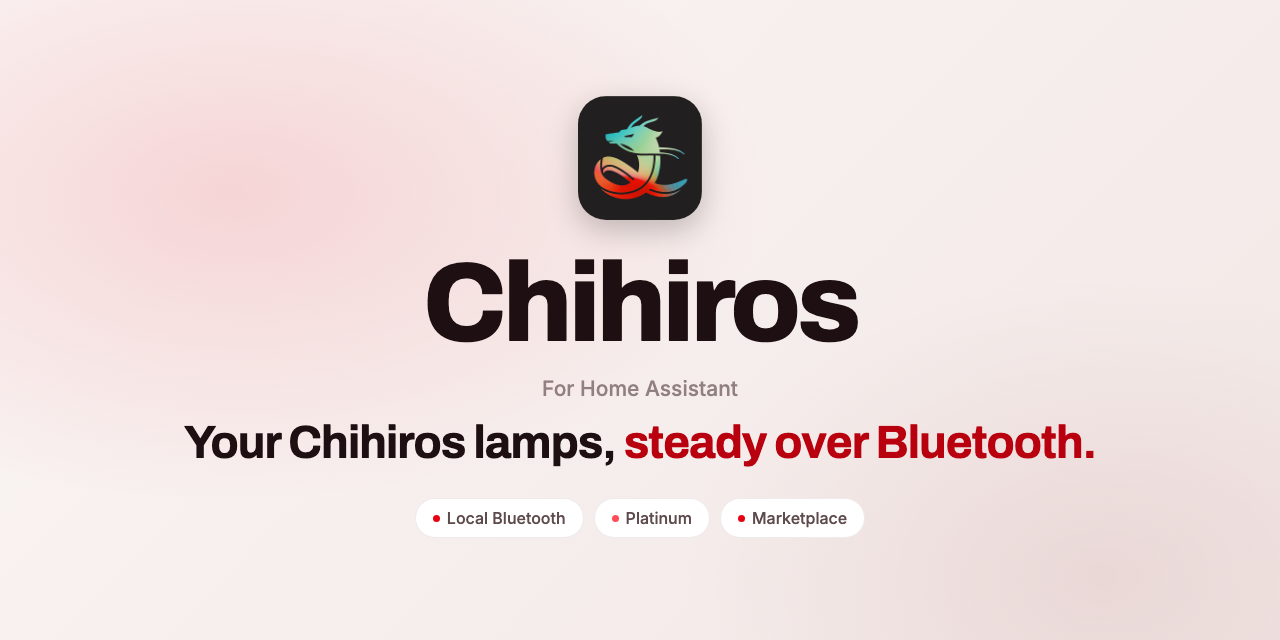
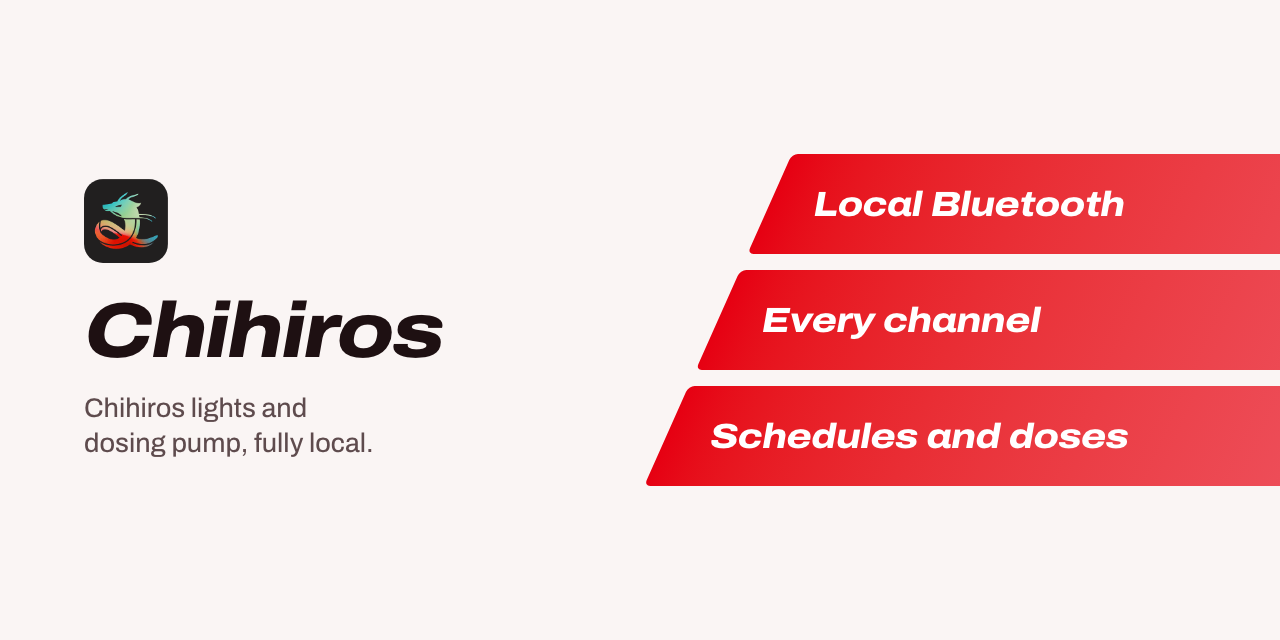
README and project page in the v2 design
Title banner with the lanes, Install and Set up as one Get started, shared
footer. The page loads theme v2 (Archivo from sh1ft-w.github.io), hero left
with the three key facts on the lanes.

Claude-Session: https://claude.ai/code/session_01TLmTtZLAvnS1BJ3w9tzxXq

diff --git a/docs/index.html b/docs/index.html
@@ -13,32 +13,30 @@
 <meta property="og:description" content="Chihiros LED lamps and the dosing pump in Home Assistant, steady over Bluetooth proxies.">
 <meta property="og:image" content="https://sh1ft-w.github.io/chihiros/images/readme-title-social.png">
 <link rel="icon" href="logo.png">
-<link rel="preconnect" href="https://fonts.googleapis.com">
-<link rel="preconnect" href="https://fonts.gstatic.com" crossorigin>
-<link href="https://fonts.googleapis.com/css2?family=Archivo:wght@600;700;800;900&family=Inter:wght@400;500;600&family=JetBrains+Mono:wght@400;500&display=swap" rel="stylesheet">
-<!-- Shared SH1FT-W design (tokens, glass navigation, light/dark, DE/EN, reveal) -->
-<link rel="stylesheet" href="https://sh1ft-w.github.io/theme/v1/theme.css">
-<script src="https://sh1ft-w.github.io/theme/v1/theme.js"></script>
+<!-- Shared SH1FT-W design, version 2 (tokens, Archivo, navigation, light/dark, DE/EN, the lanes) -->
+<link rel="stylesheet" href="https://sh1ft-w.github.io/theme/v2/theme.css">
+<script src="https://sh1ft-w.github.io/theme/v2/theme.js"></script>
 <style>
 /* Chihiros-Palette: warmes Weiß bei Tag, dunkles Rot bei Nacht, Akzent im Chihiros-Rot #e60012 */
 :root {
   --accent: #e60012; --accent-ink: #b8000e; --on-accent: #ffffff;
-  --sea: #e60012; --sea-tint: rgba(230,0,18,0.09); --sea-glow: rgba(230,0,18,0.30); --aqua: #FF4D57;
+  --sea: #e60012; --sea-tint: rgba(230,0,18,0.09); --aqua: #FF4D57;
   --ch-w: #8FA3B1; --ch-b: #2F7FD8; --ch-g: #2FA36A; --ch-r: #E0584A;
-  --font: "Inter", -apple-system, BlinkMacSystemFont, system-ui, sans-serif;
-  --display: "Archivo", "Inter", -apple-system, BlinkMacSystemFont, system-ui, sans-serif;
-  --mono: "JetBrains Mono", ui-monospace, "SF Mono", Menlo, monospace;
+  --font: "Archivo", -apple-system, BlinkMacSystemFont, system-ui, sans-serif;
+  --display: "Archivo", -apple-system, BlinkMacSystemFont, system-ui, sans-serif;
+  --mono: ui-monospace, "SF Mono", Menlo, monospace;
+  --lane-a: #E60012; --lane-b: #FF4D57;
   --bg: #FAF5F4; --bg-2: #F2E8E6; --card: #FFFFFF; --card-2: #F8F1F0;
   --ink: #1E1012; --ink-2: #5E4B4D; --ink-3: rgba(30,16,18,0.52);
   --line: rgba(60,10,15,0.11); --chip: rgba(80,10,15,0.06);
   --glass: rgba(255,251,250,0.72); --glass-line: rgba(255,255,255,0.75);
   --shadow: 0 1px 2px rgba(5,30,50,0.05), 0 12px 32px -14px rgba(5,30,50,0.22);
   --shadow-lg: 0 2px 6px rgba(5,30,50,0.05), 0 48px 100px -36px rgba(5,30,50,0.40);
-  --radius: 26px; --radius-lg: 36px;
+  --radius: 20px; --radius-lg: 28px; --max: 1200px;
 }
 @media (prefers-color-scheme: dark) { :root:not([data-theme="light"]) {
   --accent: #FF4D57; --accent-ink: #FF7A80; --on-accent: #1A0406;
-  --sea: #FF4D57; --sea-tint: rgba(255,77,87,0.14); --sea-glow: rgba(255,77,87,0.28);
+  --sea: #FF4D57; --sea-tint: rgba(255,77,87,0.14);
   --ch-w: #DCE6EC;
   --bg: #140809; --bg-2: #1D0D0F; --card: #241214; --card-2: #2E181B;
   --ink: #F7ECEC; --ink-2: rgba(240,220,222,0.84); --ink-3: rgba(240,220,222,0.52);
@@ -48,7 +46,7 @@
 } }
 :root[data-theme="dark"] {
   --accent: #FF4D57; --accent-ink: #FF7A80; --on-accent: #1A0406;
-  --sea: #FF4D57; --sea-tint: rgba(255,77,87,0.14); --sea-glow: rgba(255,77,87,0.28);
+  --sea: #FF4D57; --sea-tint: rgba(255,77,87,0.14);
   --ch-w: #DCE6EC;
   --bg: #140809; --bg-2: #1D0D0F; --card: #241214; --card-2: #2E181B;
   --ink: #F7ECEC; --ink-2: rgba(240,220,222,0.84); --ink-3: rgba(240,220,222,0.52);
@@ -64,58 +62,53 @@ a:hover { text-decoration: underline; text-underline-offset: 3px; }
 .narrow { max-width: 780px; }
 p { margin: 0; }
 .muted { color: var(--ink-2); }
-.center { text-align: center; }
-.center .lead { margin-left: auto; margin-right: auto; max-width: 680px; }
+.center { text-align: left; }
+.center .lead { max-width: 680px; }
 code, .k { font-family: var(--mono); font-variant-numeric: tabular-nums; }
 .brand { font-family: var(--display); font-weight: 800; }
 .brand img { border-radius: 8px; }
 
 /* Knöpfe */
 .btn {
-  display: inline-flex; align-items: center; justify-content: center; gap: 8px; height: 48px; padding: 0 24px; border-radius: 999px;
+  display: inline-flex; align-items: center; justify-content: center; gap: 8px; height: 48px; padding: 0 24px; border-radius: 12px;
   font-family: inherit; font-size: 15px; font-weight: 600; line-height: 1; background: var(--sea); color: var(--on-accent); border: 0; cursor: pointer;
-  box-shadow: 0 12px 28px -12px var(--sea-glow); transition: transform .2s ease, filter .2s ease;
+  transition: transform .2s ease, filter .2s ease;
 }
 .btn:hover { text-decoration: none; filter: brightness(1.1); transform: translateY(-1px); }
-.btn.ghost { background: var(--card); color: var(--ink); box-shadow: var(--shadow); }
+.btn.ghost { background: var(--chip); color: var(--ink); }
 .btn.small { height: 36px; padding: 0 16px; font-size: 14px; }
 
 /* Schrift */
-.eyebrow { display: inline-flex; align-items: center; gap: 8px; font-size: 13px; font-weight: 600; letter-spacing: 0.08em; text-transform: uppercase; color: var(--accent-ink); margin: 0 0 18px; }
-.eyebrow::before { content: ""; width: 8px; height: 8px; border-radius: 50%; background: var(--aqua); box-shadow: 0 0 0 4px var(--sea-tint); }
+.eyebrow { font-size: 16px; font-weight: 650; color: var(--accent-ink); margin: 0 0 12px; }
 h1, h2, h3 { margin: 0; color: var(--ink); font-family: var(--display); font-weight: 800; text-wrap: balance; }
-h1 { font-size: clamp(44px, 8vw, 100px); line-height: 0.96; letter-spacing: -0.04em; font-weight: 900; }
-h1 em, h2 em { font-style: normal; color: var(--accent-ink); }
-h2 { font-size: clamp(34px, 5vw, 60px); line-height: 1.03; letter-spacing: -0.035em; }
-h3 { font-size: 20px; line-height: 1.2; letter-spacing: -0.015em; font-weight: 700; }
+h1 { font-size: clamp(44px, 6vw, 84px); line-height: 1; font-weight: 800; font-stretch: 118%; font-style: italic; letter-spacing: -0.025em; }
+h1 em, h2 em { font-style: inherit; color: inherit; }
+h2 { font-size: clamp(30px, 3.8vw, 48px); line-height: 1.08; font-weight: 750; font-stretch: 112%; letter-spacing: -0.02em; }
+h3 { font-size: 20px; line-height: 1.2; letter-spacing: -0.015em; font-weight: 700; font-stretch: 106%; }
 .lead { font-size: clamp(18px, 2vw, 22px); line-height: 1.5; color: var(--ink-2); margin: 22px 0 0; }
 .lead strong { color: var(--ink); font-weight: 600; }
 
 section { padding: clamp(72px, 9vw, 120px) 0; position: relative; }
 section.tint { background: var(--bg-2); }
-.head { margin-bottom: clamp(36px, 5vw, 60px); }
-.cap { margin-top: 20px; font-size: 15px; color: var(--ink-3); text-align: center; }
+.head { margin-bottom: clamp(36px, 5vw, 60px); max-width: 50em; }
+.cap { margin-top: 20px; font-size: 15px; color: var(--ink-3); }
 
-/* Hero */
-.hero { padding: clamp(56px, 9vw, 112px) 0 clamp(64px, 8vw, 104px); text-align: center; overflow: hidden; }
-.hero .glow { position: absolute; inset: -20% -10% auto; height: 90%; pointer-events: none;
-  background: radial-gradient(40% 36% at 30% 30%, rgba(230,0,18,0.16), transparent 70%), radial-gradient(36% 34% at 72% 24%, rgba(120,0,10,0.12), transparent 70%);
-  filter: blur(50px); }
-.hero .wrap { position: relative; }
-.hero .lead { max-width: 660px; margin-left: auto; margin-right: auto; }
-.cta { display: flex; flex-wrap: wrap; gap: 12px; justify-content: center; margin-top: 34px; }
-.meta { margin-top: 22px; font-size: 14px; color: var(--ink-3); display: flex; flex-wrap: wrap; gap: 8px 14px; justify-content: center; align-items: center; }
-.pill { display: inline-flex; align-items: center; gap: 6px; padding: 5px 12px; border-radius: 999px; background: var(--card); box-shadow: var(--shadow); font-weight: 600; color: var(--ink-2); font-size: 13px; }
+/* Hero: text left, the lanes right */
+.hero { padding: clamp(48px, 7vw, 96px) 0 clamp(56px, 7vw, 96px); overflow: hidden; }
+.hero .wrap { display: grid; grid-template-columns: minmax(0, 1.15fr) minmax(0, 1fr); gap: clamp(24px, 4vw, 64px); align-items: center; }
+.hero .mark { display: block; width: 64px; height: 64px; border-radius: 15px; margin-bottom: 26px; }
+.hero .lead { max-width: 34em; }
+.hero .s-lanes { margin-left: 32px; margin-right: calc(-1 * var(--gutter) - 14vw); }
+.s-track b { color: #fff; font: italic 800 clamp(20px, 2.5vw, 34px)/1 var(--font); font-stretch: 116%; letter-spacing: -0.015em; white-space: nowrap; }
+.cta { display: flex; flex-wrap: wrap; gap: 12px; margin-top: 34px; }
+.meta { margin-top: 22px; font-size: 14px; color: var(--ink-3); display: flex; flex-wrap: wrap; gap: 8px 14px; align-items: center; }
+.pill { display: inline-flex; align-items: center; gap: 6px; padding: 5px 12px; border-radius: 8px; background: var(--chip); font-weight: 600; color: var(--ink-2); font-size: 13px; }
 .pill i { width: 7px; height: 7px; border-radius: 50%; background: var(--aqua); display: inline-block; }
-
-/* Bühne: das README-Titelbild */
-.stage { position: relative; margin: clamp(48px, 7vw, 84px) auto 0; max-width: 1100px; }
-.stage .photo { display: block; width: 100%; height: auto; aspect-ratio: 2 / 1; border-radius: var(--radius-lg); box-shadow: var(--shadow-lg); }
 
 /* Bento: Gerade neu */
 .bento { display: grid; grid-template-columns: repeat(12, 1fr); gap: 16px; }
-.b { background: var(--card); border-radius: var(--radius); box-shadow: var(--shadow); padding: 26px 28px 28px; min-width: 0; }
-.b .tag { display: inline-block; font-size: 12px; font-weight: 600; letter-spacing: 0.06em; text-transform: uppercase; color: var(--accent-ink); background: var(--sea-tint); padding: 4px 10px; border-radius: 999px; margin-bottom: 14px; }
+.b { background: var(--card); border-radius: var(--radius); border: 1px solid var(--line); padding: 26px 28px 28px; min-width: 0; }
+.b .tag { display: inline-block; font-size: 13px; font-weight: 600; color: var(--accent-ink); background: var(--sea-tint); padding: 4px 10px; border-radius: 6px; margin-bottom: 14px; }
 .b h3 { margin-bottom: 8px; }
 .b p { color: var(--ink-2); font-size: 16px; }
 .b code { font-size: 14px; background: var(--chip); padding: 2px 6px; border-radius: 6px; color: var(--ink); }
@@ -123,11 +116,11 @@ section.tint { background: var(--bg-2); }
 
 /* Funktionen */
 .grid3 { display: grid; grid-template-columns: repeat(3, minmax(0, 1fr)); gap: 16px; }
-.tile { background: var(--card); border-radius: var(--radius); padding: 28px; box-shadow: var(--shadow); min-width: 0; }
+.tile { background: var(--card); border-radius: var(--radius); padding: 28px; border: 1px solid var(--line); min-width: 0; }
 .tile h3 { margin-bottom: 8px; }
 .tile p { color: var(--ink-2); font-size: 16px; }
 .tile code { font-size: 14px; background: var(--chip); padding: 2px 6px; border-radius: 6px; }
-.tile .ico { width: 46px; height: 46px; border-radius: 15px; background: var(--sea-tint); color: var(--accent-ink); display: grid; place-items: center; margin-bottom: 18px; }
+.tile .ico { width: 46px; height: 46px; border-radius: 10px; background: var(--sea-tint); color: var(--accent-ink); display: grid; place-items: center; margin-bottom: 18px; }
 .tile .ico svg { width: 23px; height: 23px; }
 
 /* Profil-Illustration */
@@ -136,7 +129,7 @@ section.tint { background: var(--bg-2); }
 .points li { display: grid; gap: 2px; }
 .points b { font-family: var(--display); font-size: 17px; font-weight: 700; color: var(--ink); }
 .points span { color: var(--ink-2); font-size: 16px; }
-.prof { background: var(--card); border-radius: var(--radius-lg); box-shadow: var(--shadow-lg); padding: clamp(22px, 4vw, 36px); min-width: 0; }
+.prof { background: var(--card); border-radius: var(--radius-lg); border: 1px solid var(--line); padding: clamp(22px, 4vw, 36px); min-width: 0; }
 .prof-head { display: flex; justify-content: space-between; align-items: center; gap: 12px; flex-wrap: wrap; }
 .prof-head b { font-family: var(--display); font-size: 18px; }
 .days { display: flex; gap: 6px; flex-wrap: wrap; margin-top: 16px; }
@@ -154,16 +147,16 @@ section.tint { background: var(--bg-2); }
 .prof-foot b { font-weight: 600; font-size: 15px; }
 
 /* Entitäten-Tabelle */
-.tbl { width: 100%; border-collapse: separate; border-spacing: 0; background: var(--card); border-radius: var(--radius); box-shadow: var(--shadow); overflow: hidden; font-size: 15px; }
+.tbl { width: 100%; border-collapse: separate; border-spacing: 0; background: var(--card); border-radius: var(--radius); border: 1px solid var(--line); overflow: hidden; font-size: 15px; }
 .tbl th, .tbl td { text-align: left; padding: 14px 18px; border-top: 1px solid var(--line); vertical-align: top; }
-.tbl thead th { border-top: 0; font-size: 12px; font-weight: 600; letter-spacing: 0.06em; text-transform: uppercase; color: var(--accent-ink); background: var(--card-2); }
+.tbl thead th { border-top: 0; font-size: 13px; font-weight: 600; color: var(--accent-ink); background: var(--card-2); }
 .tbl td:first-child { font-weight: 600; white-space: nowrap; }
 .tbl code { font-size: 13px; background: var(--chip); padding: 2px 6px; border-radius: 6px; overflow-wrap: anywhere; }
 .tbl td:last-child { color: var(--ink-2); }
 
 /* Wie es funktioniert */
 .flow { display: grid; gap: 12px; max-width: 900px; margin: 0 auto; }
-.lane { display: grid; grid-template-columns: 1fr auto 1fr; gap: 16px; align-items: center; background: var(--card); border-radius: 22px; box-shadow: var(--shadow); padding: 18px 22px; }
+.lane { display: grid; grid-template-columns: 1fr auto 1fr; gap: 16px; align-items: center; background: var(--card); border-radius: 22px; border: 1px solid var(--line); padding: 18px 22px; }
 .lane .end b { display: block; font-family: var(--display); font-size: 16px; }
 .lane .end span { font-size: 14px; color: var(--ink-2); }
 .lane .end.r { text-align: right; }
@@ -172,12 +165,13 @@ section.tint { background: var(--bg-2); }
 
 /* Installation */
 .install { display: grid; grid-template-columns: 1.2fr 1fr; gap: 20px; }
-.panel { background: var(--card); border-radius: var(--radius); padding: clamp(26px, 4vw, 42px); box-shadow: var(--shadow); min-width: 0; }
+.panel { background: var(--card); border-radius: var(--radius); padding: clamp(26px, 4vw, 42px); border: 1px solid var(--line); min-width: 0; }
 .panel h3 { margin-bottom: 6px; }
+.panel > .btn { margin-top: 22px; }
 .panel code { font-size: 14px; background: var(--chip); padding: 2px 6px; border-radius: 6px; overflow-wrap: anywhere; }
-.repo { margin-top: 10px; display: flex; align-items: center; gap: 8px; background: var(--chip); border-radius: 18px; padding: 8px 8px 8px 18px; }
+.repo { margin-top: 10px; display: flex; align-items: center; gap: 8px; background: var(--chip); border-radius: 12px; padding: 8px 8px 8px 18px; }
 .repo code { flex: 1; min-width: 0; font-size: 15px; background: none; padding: 0; color: var(--ink); overflow-wrap: anywhere; }
-.copy { flex: none; height: 34px; padding: 0 14px; border-radius: 999px; border: 0; background: var(--card); color: var(--ink); font-family: inherit; font-size: 13px; font-weight: 600; cursor: pointer; box-shadow: 0 1px 2px rgba(0,0,0,0.12); }
+.copy { flex: none; height: 34px; padding: 0 14px; border-radius: 8px; border: 1px solid var(--line); background: var(--card); color: var(--ink); font-family: inherit; font-size: 13px; font-weight: 600; cursor: pointer; }
 .steps { list-style: none; padding: 0; margin: 28px 0 0; display: grid; gap: 20px; counter-reset: s; }
 .steps li { position: relative; padding-left: 50px; color: var(--ink-2); }
 .steps li::before { counter-increment: s; content: counter(s); position: absolute; left: 0; top: -3px; width: 34px; height: 34px; border-radius: 50%; display: grid; place-items: center; background: var(--sea-tint); color: var(--accent-ink); font-weight: 700; font-size: 15px; }
@@ -186,14 +180,14 @@ section.tint { background: var(--bg-2); }
 .req li { display: flex; gap: 14px; align-items: baseline; padding: 14px 0; border-top: 1px solid var(--line); font-size: 16px; }
 .req li:first-child { border-top: 0; padding-top: 6px; }
 .req .name { color: var(--ink); font-weight: 600; flex: 1; min-width: 0; }
-.tg { flex: none; font-size: 12px; font-weight: 600; letter-spacing: 0.04em; text-transform: uppercase; padding: 4px 10px; border-radius: 999px; background: var(--sea-tint); color: var(--accent-ink); }
+.tg { flex: none; font-size: 13px; font-weight: 600; padding: 4px 10px; border-radius: 6px; background: var(--sea-tint); color: var(--accent-ink); }
 .tg.opt { background: var(--chip); color: var(--ink-3); }
 .note { margin-top: 20px; font-size: 14px; color: var(--ink-3); }
 .full { grid-column: 1 / -1; }
 
 /* FAQ */
 .faq { display: grid; gap: 10px; }
-.faq details { background: var(--card); border-radius: 20px; box-shadow: var(--shadow); padding: 0 22px; }
+.faq details { background: var(--card); border-radius: 20px; border: 1px solid var(--line); padding: 0 22px; }
 .faq summary { cursor: pointer; list-style: none; padding: 18px 0; font-family: var(--display); font-weight: 700; font-size: 17px; display: flex; gap: 12px; align-items: center; }
 .faq summary::-webkit-details-marker { display: none; }
 .faq summary::after { content: "+"; margin-left: auto; font-size: 22px; color: var(--accent-ink); font-weight: 600; }
@@ -217,7 +211,6 @@ footer .fine { flex-basis: 100%; line-height: 1.6; }
 }
 @media (max-width: 640px) {
   body { font-size: 16px; }
-  :root { --radius: 22px; --radius-lg: 28px; }
   .nav { padding: 0 8px 0 14px; }
   .nav .btn { margin-left: auto; }
   .grid3 { grid-template-columns: 1fr; }
@@ -239,6 +232,10 @@ footer .fine { flex-basis: 100%; line-height: 1.6; }
   .tbl td { border: 0; padding: 2px 0; }
   .tbl td:first-child { white-space: normal; }
 }
+@media (max-width: 900px) { .hero .wrap { grid-template-columns: 1fr; } .hero .s-lanes { margin: 8px calc(-1 * var(--gutter) - 8vw) 0 44px; } }
+/* Navigation links go before they push the button out of the bar */
+@media (max-width: 900px) { .nav-links { display: none; } .nav > .iconbtn { margin-left: auto; } .nav > .btn { margin-left: 0; } }
+@media (max-width: 400px) { .nav > .btn { display: none; } }
 </style>
 </head>
 <body>
@@ -264,25 +261,24 @@ footer .fine { flex-basis: 100%; line-height: 1.6; }
 </div>
 
 <section class="hero" id="top">
-  <div class="glow" aria-hidden="true"></div>
   <div class="wrap">
-    <p class="eyebrow reveal"><span class="en">Chihiros lamps and dosing pump in Home Assistant</span><span class="de">Chihiros-Lampen und Dosierpumpe in Home Assistant</span></p>
-    <h1 class="reveal d1"><span class="en">Your Chihiros lamps,<br><em>steady over Bluetooth.</em></span><span class="de">Deine Chihiros-Lampen,<br><em>stabil über Bluetooth.</em></span></h1>
-    <p class="lead reveal d2"><span class="en">Chihiros talks to Chihiros LED lamps and the dosing pump through Home Assistant's Bluetooth and ESPHome proxies: <strong>every channel as a slider, daily schedules written to the lamp, dosing that is never repeated</strong>. No app, no cloud.</span><span class="de">Chihiros spricht über das Bluetooth von Home Assistant und ESPHome-Proxys mit Chihiros-LED-Lampen und der Dosierpumpe: <strong>jeder Kanal ein Regler, Tagesabläufe direkt in der Lampe, Dosieren, das nie wiederholt wird</strong>. Ohne App, ohne Cloud.</span></p>
-    <div class="cta reveal d3">
-      <a class="btn" href="#install"><span class="en">Install from the Marketplace</span><span class="de">Über den Marketplace installieren</span></a>
-      <a class="btn ghost" href="https://github.com/SH1FT-W/chihiros#readme"><span class="en">Read the README</span><span class="de">Zur Anleitung</span></a>
+    <div>
+      <img class="mark" src="logo.png" alt="" width="64" height="64">
+      <h1><span class="en">Your Chihiros lamps, steady over Bluetooth.</span><span class="de">Deine Chihiros-Lampen, stabil über Bluetooth.</span></h1>
+      <p class="lead reveal d2"><span class="en">Chihiros talks to Chihiros LED lamps and the dosing pump through Home Assistant's Bluetooth and ESPHome proxies: <strong>every channel as a slider, daily schedules written to the lamp, dosing that is never repeated</strong>. No app, no cloud.</span><span class="de">Chihiros spricht über das Bluetooth von Home Assistant und ESPHome-Proxys mit Chihiros-LED-Lampen und der Dosierpumpe: <strong>jeder Kanal ein Regler, Tagesabläufe direkt in der Lampe, Dosieren, das nie wiederholt wird</strong>. Ohne App, ohne Cloud.</span></p>
+      <div class="cta reveal d3">
+        <a class="btn" href="#install"><span class="en">Install from the Marketplace</span><span class="de">Über den Marketplace installieren</span></a>
+        <a class="btn ghost" href="https://github.com/SH1FT-W/chihiros#readme"><span class="en">Read the README</span><span class="de">Zur Anleitung</span></a>
+      </div>
+      <p class="meta reveal d3">
+        <span class="pill"><i></i><span id="hl-version">Version 26.11.1</span></span>
+        <span class="en">Home Assistant 2026.9 or newer &middot; English and German &middot; Apache 2.0</span><span class="de">Home Assistant 2026.9 oder neuer &middot; Deutsch und Englisch &middot; Apache 2.0</span>
+      </p>
     </div>
-    <p class="meta reveal d3">
-      <span class="pill"><i></i><span id="hl-version">Version 26.11.1</span></span>
-      <span class="en">Home Assistant 2026.9 or newer &middot; English and German &middot; Apache 2.0</span><span class="de">Home Assistant 2026.9 oder neuer &middot; Deutsch und Englisch &middot; Apache 2.0</span>
-    </p>
-
-    <div class="stage reveal d3">
-      <picture>
-        <source media="(prefers-color-scheme: dark)" srcset="images/readme-title-dark.webp">
-        <img class="photo" src="images/readme-title-light.webp" width="2560" height="1280" alt="Chihiros: Your Chihiros lamps, steady over Bluetooth.">
-      </picture>
+    <div class="s-lanes" aria-hidden="true">
+      <div class="s-lane"><div class="s-track"><b><span class="en">Local Bluetooth</span><span class="de">Lokales Bluetooth</span></b></div></div>
+      <div class="s-lane"><div class="s-track"><b><span class="en">Every channel</span><span class="de">Jeder Kanal</span></b></div></div>
+      <div class="s-lane"><div class="s-track"><b><span class="en">Schedules and doses</span><span class="de">Abläufe und Dosierung</span></b></div></div>
     </div>
   </div>
 </section>

diff --git a/README.md b/README.md
@@ -2,14 +2,14 @@
 
 <picture>
   <source media="(prefers-color-scheme: dark)" srcset="docs/images/readme-title-dark.webp" />
-  <img src="docs/images/readme-title-light.webp" alt="Chihiros: Your Chihiros lamps, steady over Bluetooth." />
+  <img src="docs/images/readme-title-light.webp" alt="Chihiros: Chihiros lights and dosing pump, fully local. Local Bluetooth. Every channel. Schedules and doses." />
 </picture>
 
 [![Version](https://img.shields.io/badge/dynamic/json?url=https%3A%2F%2Fraw.githubusercontent.com%2FSH1FT-W%2Fchihiros%2Fmain%2Fcustom_components%2Fchihiros%2Fmanifest.json&query=%24.version&label=version&style=flat-square&color=e60012&labelColor=111111)](https://github.com/SH1FT-W/chihiros/releases/latest)
 [![Home Assistant](https://img.shields.io/badge/Home%20Assistant-2026.9%2B-e60012?style=flat-square&labelColor=111111&logo=homeassistant&logoColor=white)](https://www.home-assistant.io)
 [![Marketplace](https://img.shields.io/badge/Marketplace-default-e60012?style=flat-square&labelColor=111111)](https://hacs.xyz)
 
-<a href="https://sh1ft-w.github.io/chihiros"><b>Website</b></a>&emsp;<a href="#supported-devices">Devices</a>&emsp;<a href="#install">Install</a>&emsp;<a href="#set-up">Set up</a>&emsp;<a href="#entities">Entities</a>&emsp;<a href="CHANGELOG.md">Changelog</a>
+<a href="https://sh1ft-w.github.io/chihiros"><b>Website</b></a>&emsp;<a href="#get-started">Get started</a>&emsp;<a href="#supported-devices">Devices</a>&emsp;<a href="#entities">Entities</a>&emsp;<a href="CHANGELOG.md">Changelog</a>
 
 </div>
 
@@ -45,12 +45,19 @@ The untested lamps speak the same protocol as the C II RGB and are built from th
 
 **New in 26.11:** the container level keeps counting after a totals reset, and discovery ignores ghost devices from Bluetooth proxies. Every change is in the [changelog](CHANGELOG.md).
 
-<a id="install"></a>
-## Install
+<a id="get-started"></a><a id="install"></a><a id="set-up"></a>
+## Get started
 
 [![Open in the Marketplace](https://my.home-assistant.io/badges/hacs_repository.svg)](https://my.home-assistant.io/redirect/hacs_repository/?owner=SH1FT-W&repository=chihiros&category=integration)
 
-Search for **Chihiros** under **Settings > Marketplace** (called HACS before Home Assistant 2026.11), download it and restart Home Assistant.
+Before you start, you need a connectable Bluetooth adapter or an ESPHome Bluetooth proxy in range of the device, with a free connection slot. Close the My Chihiros app: the device takes only one connection.
+
+1. **Install it.** Search for **Chihiros** under **Settings > Marketplace** (called HACS before Home Assistant 2026.11), download it and restart Home Assistant.
+2. **Add the device.** Devices in range show up under **Settings > Devices & services > Discovered**.
+3. **Answer the one question.** For the dosing pump, the number of pump channels (1 to 8, default 4). For a Commander 1, the connected lamp (white, RGB or WRGB). Other devices need nothing.
+4. **Low container push, if you like.** Under **Configure** on the pump.
+
+The pump channel count can be changed later with **three dots > Reconfigure**; entities of channels no longer used are removed.
 
 <details>
 <summary>Install by hand</summary>
@@ -59,17 +66,6 @@ Search for **Chihiros** under **Settings > Marketplace** (called HACS before Hom
 2. Copy `custom_components/chihiros` into `/config/custom_components/` and restart Home Assistant.
 
 </details>
-
-<a id="set-up"></a>
-## Set up
-
-Before you start, you need a connectable Bluetooth adapter or an ESPHome Bluetooth proxy in range of the device, with a free connection slot. Close the My Chihiros app: the device takes only one connection.
-
-1. **Add the device.** Devices in range show up under **Settings > Devices & services > Discovered**.
-2. **Answer the one question.** For the dosing pump, the number of pump channels (1 to 8, default 4). For a Commander 1, the connected lamp (white, RGB or WRGB). Other devices need nothing.
-3. **Low container push, if you like.** Under **Configure** on the pump.
-
-The pump channel count can be changed later with **three dots > Reconfigure**; entities of channels no longer used are removed.
 
 <a id="switching"></a>
 ### Switching from the original integration
@@ -240,3 +236,11 @@ Test requirements: `pip install -r requirements_test.txt`. The tests replace Blu
 [Apache License 2.0](LICENSE), Copyright 2026 SH1FT-W. Acknowledgements and the license of the original integration in [`NOTICE`](NOTICE).
 
 <sub>Chihiros (this integration) is an independent project, not affiliated with, endorsed or sponsored by Chihiros. Chihiros is a trademark of its owner.</sub>
+
+<br/>
+
+<div align="center">
+<a href="https://sh1ft-w.github.io"><img src="https://sh1ft-w.github.io/readme/footer.png" width="640" alt="All SH1FT-W projects"></a>
+<br/>
+<sub>More open source for Home Assistant and the Mac at <a href="https://sh1ft-w.github.io">sh1ft-w.github.io</a></sub>
+</div>

diff --git a/CLAUDE.md b/CLAUDE.md
@@ -48,7 +48,7 @@ Versionszeile der Projektseite (`docs/index.html`) lesen die manifest.json selbs
   Push/PR auf main plus hassfest, montags zusätzlich gegen die neueste HA; Abdeckungsgrenze 96 %.
   Pakete der CI in `requirements_test.txt` (HA 2026.9.3 + Bluetooth-Pakete). `.github/workflows/hacs.yml`: HACS-Validierung.
 - `tools/next-version` und `tools/pruefe-uebersetzungen.py` sind byteidentische Kopien der Vorlagen.
-- README-Bilder aus `docs/readme-images.json` mit `theme/v1/readme-images/render.mjs <repo>` aus sh1ft-w.github.io:
-  Titel `docs/images/readme-title-{light,dark}.webp` (2560 × 1280, Fenster zeigt `docs/images/title-shot-*.png` =
-  Funktionsblock der Projektseite, 2× aufgenommen) plus `readme-title-social.png` für die GitHub-Vorschau; README-Aufbau nach `repo-vorlagen/readme-muster.md`, ohne Kartentabellen. Die Projektseite zeigt das
-  Titelbild im Hero.
+- README-Bilder aus `docs/readme-images.json` mit `theme/v2/readme-images/render.mjs <repo>` aus sh1ft-w.github.io:
+  Titel-Banner `docs/images/readme-title-{light,dark}.webp` (2560 × 880) plus `readme-title-social.png` (1280 × 640) für die
+  GitHub-Vorschau, aus `title.name`, `title.line` und drei `title.lanes`. README- und Seitenaufbau nach
+  `repo-vorlagen/readme-muster.md` (Design v2: Hero mit den drei Bahnen, kein Titelbild im Hero).
